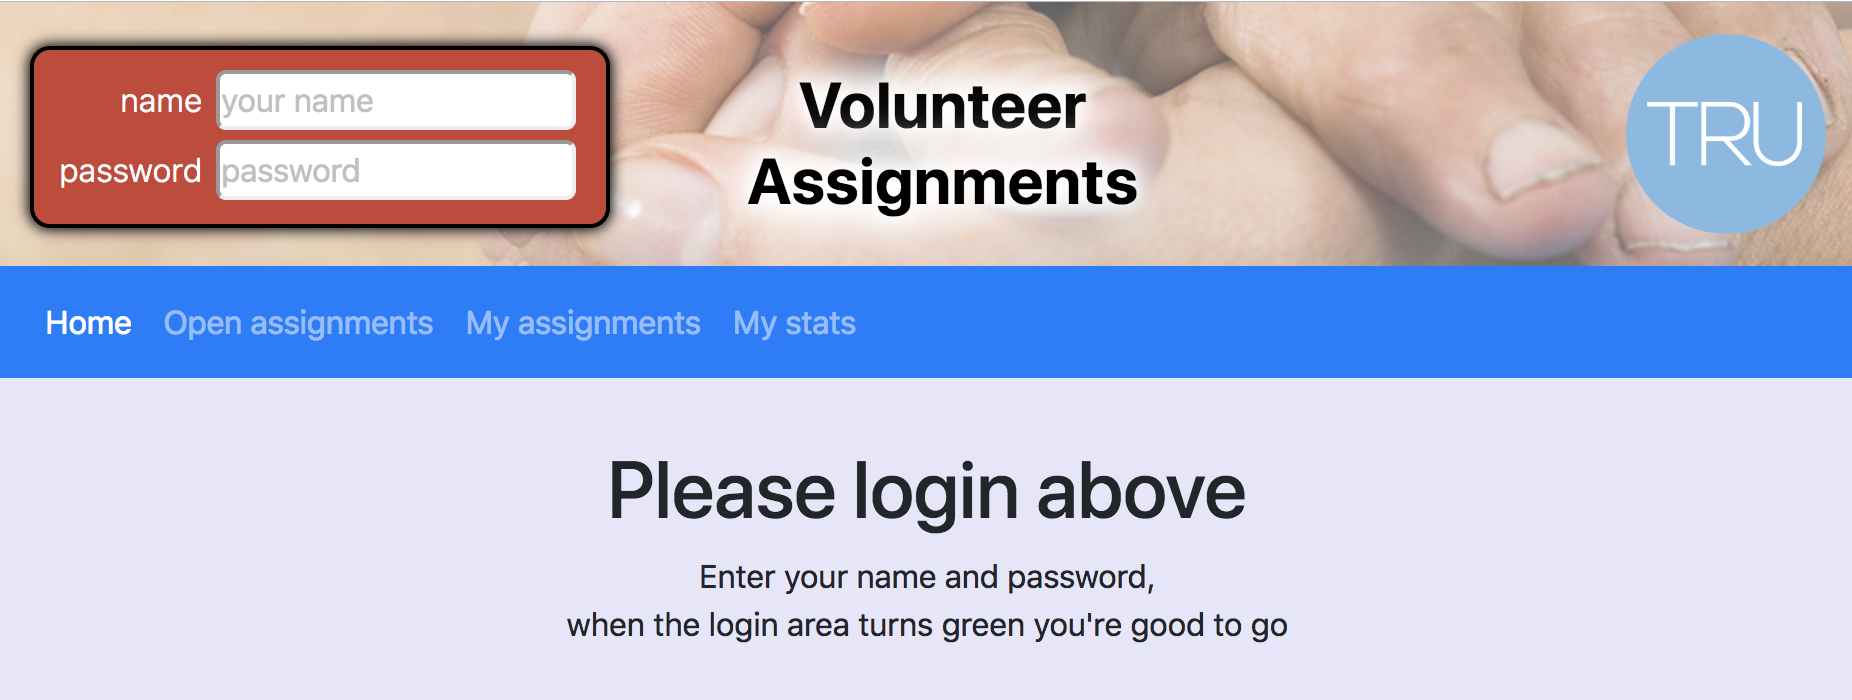
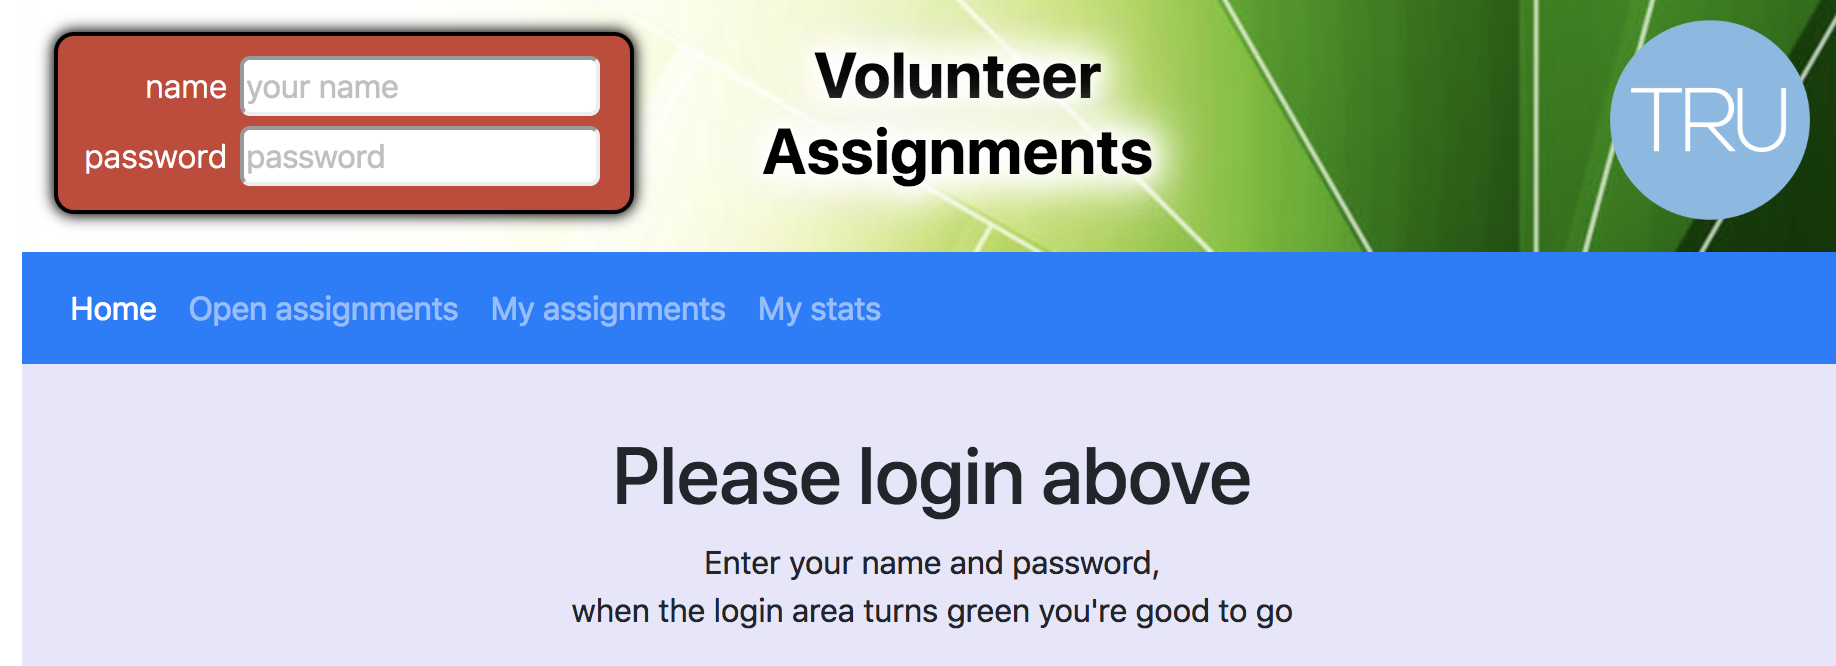
Before splitting js file
Finished the home page and screenshots.  PReparing to split up the js files now.

diff --git a/index.html b/index.html
@@ -3,6 +3,8 @@
 
 <head>
   <meta charset="utf-8">
+  <!-- Font Awesome -->
+  <link rel="stylesheet" href="https://use.fontawesome.com/releases/v5.2.0/css/all.css" integrity="sha384-hWVjflwFxL6sNzntih27bfxkr27PmbbK/iSvJ+a4+0owXq79v+lsFkW54bOGbiDQ" crossorigin="anonymous">
   <!-- Bootstrap CSS -->
   <link rel="stylesheet" href="https://stackpath.bootstrapcdn.com/bootstrap/4.1.3/css/bootstrap.min.css" integrity="sha384-MCw98/SFnGE8fJT3GXwEOngsV7Zt27NXFoaoApmYm81iuXoPkFOJwJ8ERdknLPMO" crossorigin="anonymous">
   <!-- App CSS -->
@@ -88,15 +90,34 @@
     <!-- CONTENT - Home Page -->
     <!-- ============================================= -->
     <div id="content--home" class="content" hidden>
-      <H1 class="text-center">Select from the menu above or the links below</H1>
+      <H4 class="text-center mt-3 mb-4">This site helps you fnd a new assignment, view
+        assignment details, and view your volunteer statitics and recent docs.
+        Select from the menu above or the links below</H4>
 
-
-      <p><a target="_blank" href="https://docs.google.com/forms/d/e/1FAIpQLScvPFeWj4e0X-S002u8uiOmLJz8JVRt1_vCS4oBCGQUdR8j5Q/viewform">
-        Submit a doc</a></p>
-      <p><a  href="https://sites.google.com/trucare.org/volunteers/home">
-        Return to Volunteers Home Page</a></p>
-      Triage: 303-442-0971</li>
-      </ul>
+        <!-- <div class="row p-3 d-flex align-items-end"> -->
+      <div class="row d-flex align-items-end">
+        <div class="col-2">
+        </div>
+        <div class="col-1 pr-2 text-center">
+          <h1><a href="https://docs.google.com/forms/d/e/1FAIpQLScvPFeWj4e0X-S002u8uiOmLJz8JVRt1_vCS4oBCGQUdR8j5Q/viewform" target="_blank">
+            <i class="far fa-file-alt"></i></a></h1>
+        </div>
+        <div class="col-9 pl-2">
+          <h3><a href="https://docs.google.com/forms/d/e/1FAIpQLScvPFeWj4e0X-S002u8uiOmLJz8JVRt1_vCS4oBCGQUdR8j5Q/viewform" target="_blank">Submit a doc</a></h3>
+        </div>
+      </div>
+      <div class="row d-flex align-items-end">
+        <div class="col-2">
+        </div>
+        <div class="col-1 pr-2 text-center">
+          <h1><a href="https://sites.google.com/trucare.org/volunteers/home">
+            <i class="fas fa-home"></i></a></h1>
+        </div>
+        <div class="col-9 pl-2">
+          <h3><a href="https://sites.google.com/trucare.org/volunteers/home">Go to the Volunteer Website</a></h3>
+        </div>
+      </div>
+      <p>&nbsp;</p>
     </div>
 
     <!-- ============================================= -->

diff --git a/readme.md b/readme.md
@@ -12,7 +12,7 @@ This site allows TRU Care volunteers to:
 
 The site links to:
 * the volunteer's "home" page, administered via Google Sites
-* a Google Form for volunteers to submit documentation of their patient visit
+* a Google Form for volunteers to submit documentation of their patient visits
 
 
 # Login
@@ -85,5 +85,3 @@ project on their servers.
 
 Data is maintained and server.js is executed in the context of the e
 dphelps@trucare.org Google account.
-
-Banner from http://301stockinvesting.com/05/2018/abstract-banner-vector-png/banner
